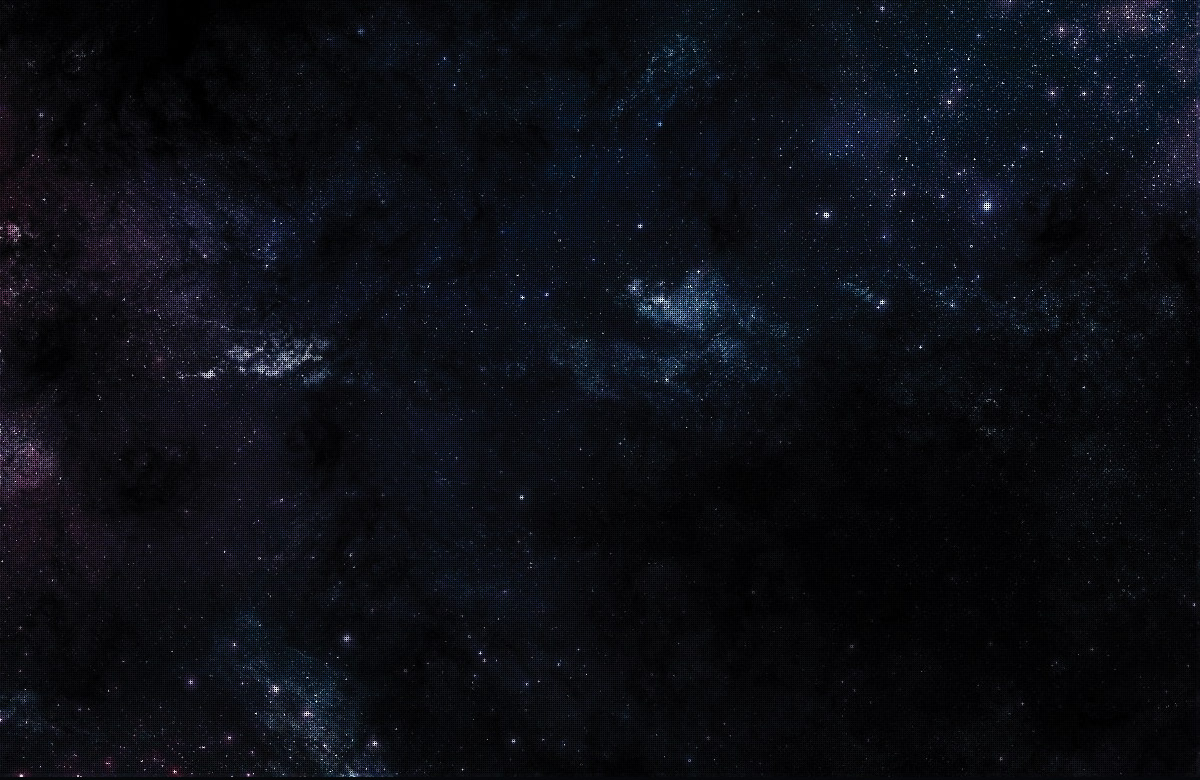
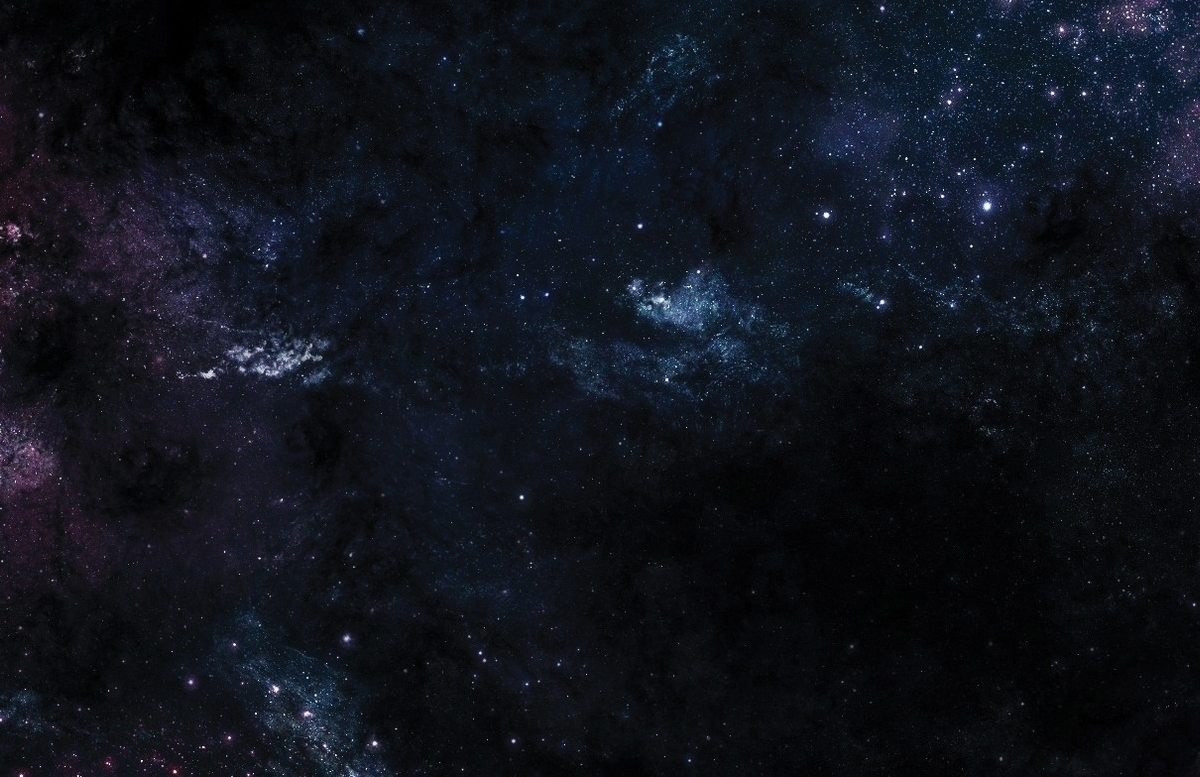
UI/UI bugs fixed

diff --git a/styles.css b/styles.css
@@ -592,20 +592,40 @@ a {
 }
 
 .header {
+  padding: 20px 0 0;
   position: fixed;
   width: 100%;
-  height: 50px;
   top: 0;
   left: 0;
   z-index: 11;
+  -webkit-transition: background-color 1s ease-in-out;
+  transition: background-color 1s ease-in-out;
 }
 
 .header a {
   display: inline-block;
 }
 
-.header.black {
+.header .logo,
+.header .main-nav {
+  position: relative;
+  top: 0;
+  -webkit-transition: all 0.75s ease-in-out;
+  transition: all 0.75s ease-in-out;
+}
+
+.header.fixed {
   background: #000;
+  -webkit-transition: background-color 0.75s ease-in-out;
+  transition: background-color 0.75s ease-in-out;
+}
+
+.header.fixed .logo,
+.header.fixed .main-nav {
+  position: relative;
+  top: -10px;
+  -webkit-transition: all 1s ease-in-out;
+  transition: all 1s ease-in-out;
 }
 
 .logo {
@@ -715,6 +735,13 @@ a {
   position: relative;
 }
 
+.slide-one .texture {
+  position: absolute;
+  top: 0;
+  left: 0;
+  width: 100%;
+}
+
 .text {
   width: 66.66666666666667%;
   margin: 0 auto;
@@ -765,6 +792,17 @@ a {
   opacity: 0;
 }
 
+.text-five {
+  padding-top: 2rem;
+  font-size: 1.8rem;
+  -webkit-animation: transY 2s .8s ease forwards;
+  animation: transY 2s .8s ease forwards;
+  -webkit-transform: translateY(30px);
+  -ms-transform: translateY(30px);
+  transform: translateY(30px);
+  opacity: 0;
+}
+
 .scrol-icon {
   width: 160px;
   font-size: 12px;
@@ -787,6 +825,8 @@ a {
 
 .slide-two {
   background-color: #141e30;
+  background-image: -webkit-radial-gradient(50% 50%, circle closest-side, rgba(255, 255, 255, 0.0125) 0%, rgba(16, 25, 41, 0.3) 100%);
+  background-image: radial-gradient(50% 50%, circle closest-side, rgba(255, 255, 255, 0.0125) 0%, rgba(16, 25, 41, 0.3) 100%);
 }
 
 .black__text {
@@ -794,6 +834,7 @@ a {
   margin: 0 auto;
   padding-top: 30rem;
   font-size: 6rem;
+  font-family: nexa_boldregular, 'sans serif';
 }
 
 .slide-three {
@@ -904,6 +945,8 @@ a {
 
 .slide-six {
   background: #121a2c;
+  background-image: -webkit-radial-gradient(50% 50%, circle closest-side, rgba(255, 255, 255, 0.0125) 0%, rgba(16, 25, 41, 0.3) 100%);
+  background-image: radial-gradient(50% 50%, circle closest-side, rgba(255, 255, 255, 0.0125) 0%, rgba(16, 25, 41, 0.3) 100%);
 }
 
 .slide-long__text {
@@ -1074,6 +1117,14 @@ a {
 .footer__social-icon {
   display: inline-block;
   padding: 0 .4rem;
+  -webkit-transition: opacity 0.4s;
+  transition: opacity 0.4s;
+}
+
+.footer__social-icon:hover {
+  opacity: 0.8;
+  -webkit-transition: opacity 0.4s;
+  transition: opacity 0.4s;
 }
 
 .login-wrap {
@@ -1503,6 +1554,7 @@ button:focus {
 .login__social-block .login__social-link,
 .login__sign-in {
   overflow: hidden;
+  position: relative;
   background-image: url(images/buttons-overlay.png);
   background-position: -300px 0;
   background-repeat: no-repeat;
@@ -1549,6 +1601,11 @@ button:focus {
 
 .login__social-block .login__social-link.linkedin {
   background-image: url(images/buttons-overlay-lnkin.png);
+}
+
+.login__social-block .login__social-link:active,
+.login__social-block .login__social-link.active {
+  top: 2px;
 }
 
 .login__sign-in {

diff --git a/slides.less b/slides.less
@@ -14,6 +14,12 @@
   // background-repeat: no-repeat;
   position: relative;
 }
+.slide-one .texture{
+  position: absolute;
+  top: 0;
+  left: 0;
+  width: 100%;
+}
 .text{
   .line-c(8);
   // color: #fff;
@@ -23,7 +29,7 @@
 .text-art{
   // font-size: 78px;
   animation: transY 2s .4s ease forwards;
-transform: translateY(30px);
+  transform: translateY(30px);
  opacity: 0;
 }
 
@@ -58,6 +64,13 @@ opacity: 0;
 transform: translateY(30px);
 opacity: 0;
 }
+.text-five{
+  padding-top: 2rem;
+  font-size: 1.8rem;
+  animation: transY 2s .8s ease forwards;
+  transform: translateY(30px);
+  opacity: 0;
+}
 .scrol-icon{
   // .line-c(1);
   width: 160px;
@@ -82,6 +95,7 @@ opacity: 0;
 //============TWO======================
 .slide-two{
     background-color: #141e30;
+    background-image: radial-gradient(50% 50%, circle closest-side, rgba(255,255,255,0.0125) 0%, rgba(16, 25, 41, 0.3) 100%);
 }
 .black__text{
   .line-c(6);
@@ -89,6 +103,7 @@ opacity: 0;
 padding-top: 30rem;
  // font-size: 60px;
  font-size: 6rem;
+  font-family: nexa_boldregular, 'sans serif';
 }
 //===============THREE========================
 .slide-three{
@@ -243,6 +258,7 @@ transform: translateY(300px);
 //=======================SIX=============
 .slide-six{
   background: #121a2c;
+  background-image: radial-gradient(50% 50%, circle closest-side, rgba(255,255,255,0.0125) 0%, rgba(16, 25, 41, 0.3) 100%);
   // margin-bottom: 7rem;
   // height: 225rem;
 }

diff --git a/index.html b/index.html
@@ -42,12 +42,14 @@
 
         <!-- =================slide-one================= -->
             <div id="one" class="slide-one slide-height">
+                <div class="texture"></div>
                 <div class="slide-big top">
                     <div class="text">
                     <img class="text-art" src="images/art-of.png">
                     <span class="text-two">Software Enhancing</span>
                     <span class="text-tree">by measuring Usage experience</span>
                     <span class="text-four">available on Every platform</span>
+                    <span class="text-five"><img src="images/platforms-icons.png" alt=""/></span>
                     </div>
                     <a href="#two" class="scrol-icon">
                     <span class="scrol-icon__text">Scroll down</span>
@@ -59,6 +61,7 @@
         <!-- =================slide-two================= -->
             <div id="two" class="slide-two slide-height">
                     <span class="black__text">How Does It Work?</span>
+                    <span class="black__text__secondary">Let's see</span>
             </div>
 
         <!-- =================slide-three================= -->

diff --git a/nav.less b/nav.less
@@ -1,17 +1,32 @@
 .header{
+    padding: 20px 0 0;
     position: fixed;
     width: 100%;
-    height: 50px;
+    //height: 50px;
     // height: 5rem;
     top: 0;
     left: 0;
     z-index: 11;
     // background: red;
   // text-align: left;
+  transition: background-color 1s ease-in-out;
   & a{display: inline-block;}
+  .logo,
+  .main-nav{
+    position: relative;
+    top: 0;
+    transition: all 0.75s ease-in-out;
+  }
 }
-.header.black{
-    background: #000;
+.header.fixed{
+  background: #000;
+  transition: background-color 0.75s ease-in-out;
+  .logo,
+  .main-nav{
+    position: relative;
+    top: -10px;
+    transition: all 1s ease-in-out;
+  }
 }
 .logo{
   .linef(4);

diff --git a/js.js b/js.js
@@ -147,11 +147,13 @@ $(function(){
 ;(function(){
     var aaa = $('.header');
     $(window).scroll(function(){
-        if ($(window).scrollTop() > $('#one').height() ) {
-            aaa.css('background', '#000');
+        if ($(window).scrollTop() >= $('#one').height() ) {
+            //aaa.css('background', '#000');
+            aaa.addClass('fixed')
         }
         else{
-             aaa.css('background', 'transparent')
+             //aaa.css('background', 'transparent')
+             aaa.removeClass('fixed');
         };
         return false;
     });

diff --git a/buttons.less b/buttons.less
@@ -48,6 +48,7 @@ button:focus{
 .login__social-block .login__social-link,
 .login__sign-in{
   overflow: hidden;
+  position: relative;
   //background-color: transparent;
   background-image: url(images/buttons-overlay.png);
   background-position: -300px 0;
@@ -88,6 +89,10 @@ button:focus{
   &.linkedin{
       background-image: url(images/buttons-overlay-lnkin.png);
     }
+  &:active,
+  &.active{
+    top: 2px;
+  }
   }
 
 .login__sign-in{

diff --git a/footer.less b/footer.less
@@ -60,4 +60,9 @@ padding-right: 30px;
   display: inline-block;
   // padding: 0 4px;
   padding: 0 .4rem;
+  transition: opacity 0.4s;
+  &:hover{
+    opacity: 0.8;
+    transition: opacity 0.4s;
+  }
 }
